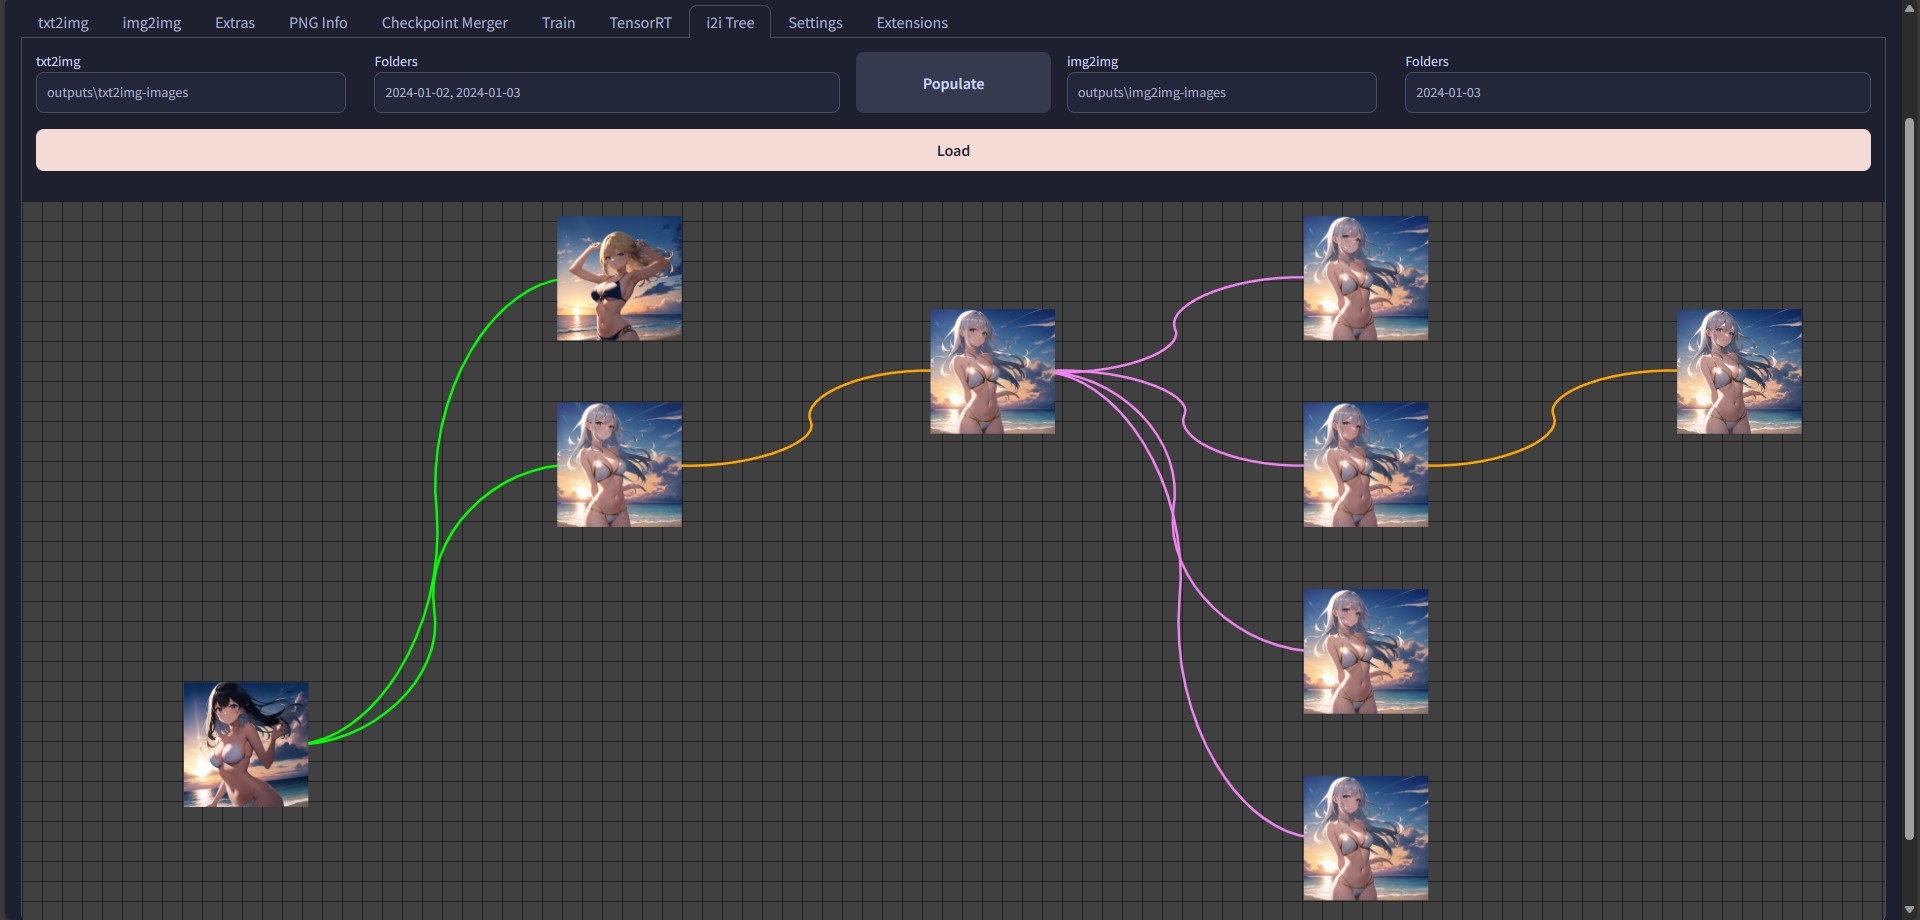
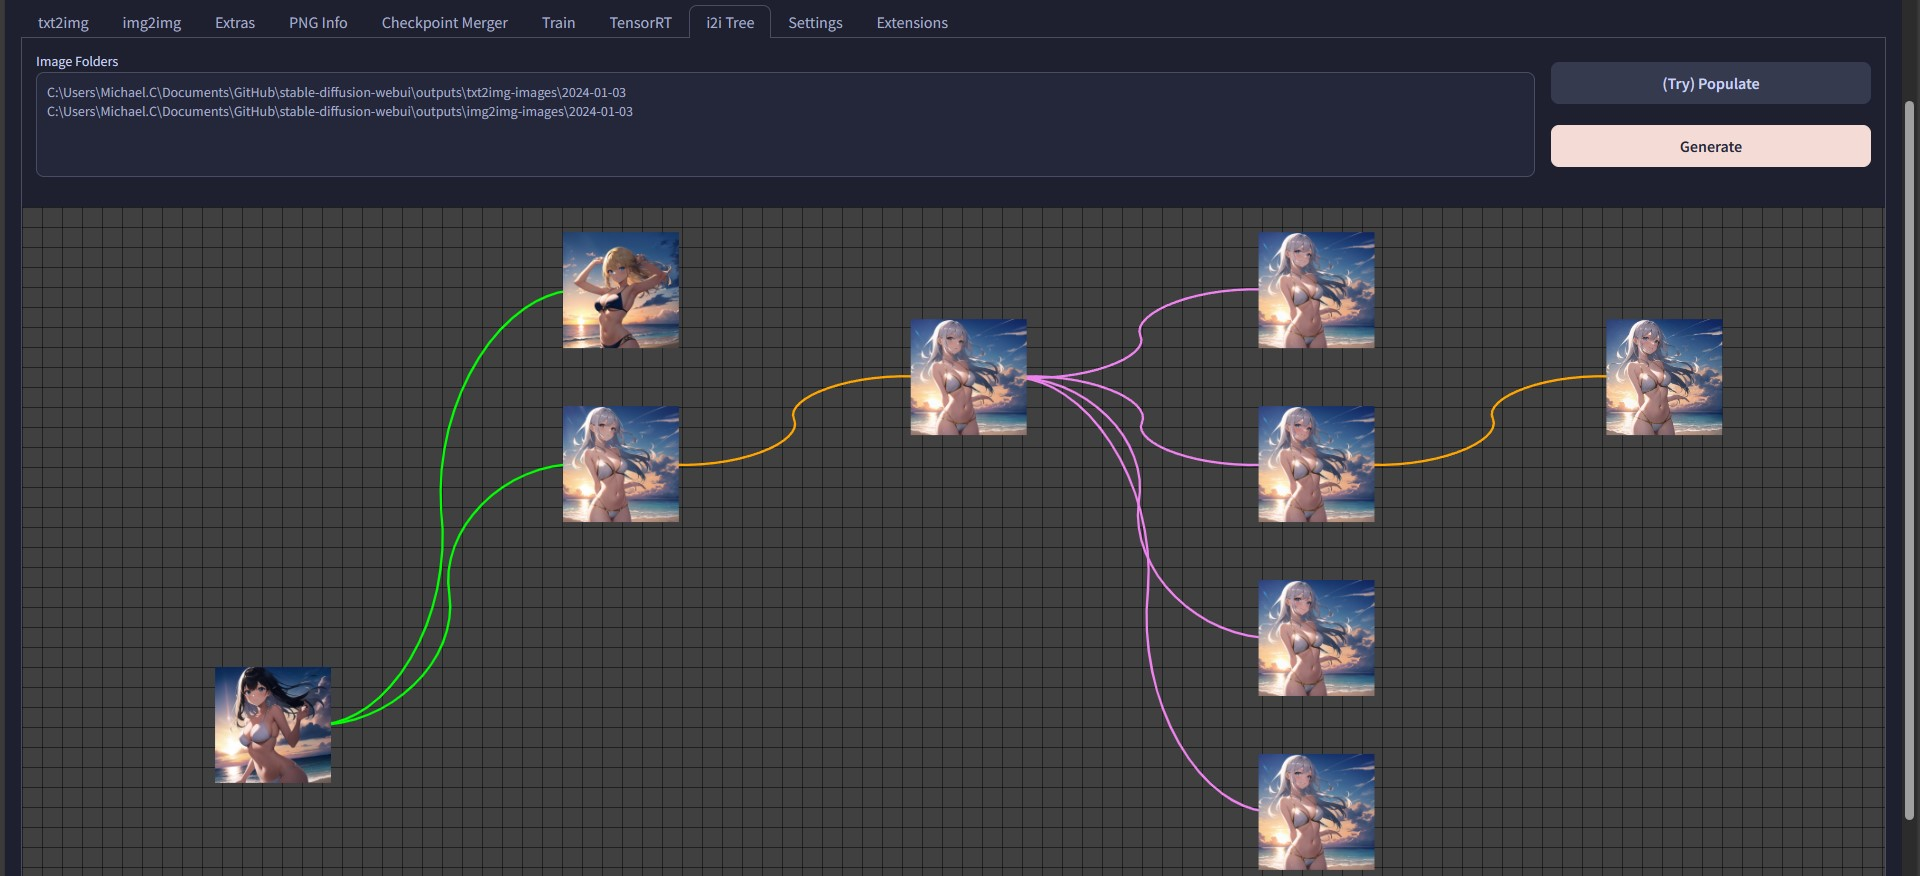
addressing #1

diff --git a/javascript/iTree_Loader.js b/javascript/iTree_Loader.js
@@ -50,6 +50,22 @@ function prune_unused(nodeList, sourceList) {
     return [nodeList, sourceList];
 }
 
+function prune_dupes() {
+    for (let i = iTree.nodeList.length - 1; i > 0; i--) {
+        for (let ii = i - 1; ii >= 0; ii--) {
+            if (iTree.nodeList[i].self === iTree.nodeList[ii].self)
+                iTree.nodeList.splice(i, 1);
+        }
+    }
+
+    for (let i = iTree.sourceList.length - 1; i >= 0; i--) {
+        for (let ii = i - 1; ii >= 0; ii--) {
+            if (iTree.sourceList[i].self === iTree.sourceList[ii].self)
+                iTree.sourceList.splice(i, 1);
+        }
+    }
+}
+
 function recursive_mapping(parent, rank, layer) {
     const ret = {};
     var childCount = 0;
@@ -128,7 +144,12 @@ function i2i_construct_tree() {
         return;
 
     const [allNodeList, allSourceList] = construct_hierarchy(imgs);
+
+    // console.log(allNodeList);
+    // console.log(allSourceList);
+
     [iTree.nodeList, iTree.sourceList] = prune_unused(allNodeList, allSourceList);
+    prune_dupes();
 
     // console.log(iTree.nodeList);
     // console.log(iTree.sourceList);

diff --git a/style.css b/style.css
@@ -26,6 +26,9 @@
     padding: 1em;
 }
 
-    #i2i_tree_tools .form {
-        gap: 2em;
+    #i2i_tree_tools .gradio-column {
+        display: flex;
+        flex-direction: row;
+        align-items: center;
+        gap: 0;
     }

diff --git a/scripts/i2i_tree.py b/scripts/i2i_tree.py
@@ -1,59 +1,69 @@
 from scripts.i2i_info import img2input, path2hash
 from modules import script_callbacks
+from modules.shared import opts
 import gradio as gr
 import os
 
-def parse_latest_folder():
-    from modules.shared import opts
-    T2I_OUTPUT_FOLDER = os.path.join(opts.outdir_samples, opts.outdir_txt2img_samples)
-    I2I_OUTPUT_FOLDER = os.path.join(opts.outdir_samples, opts.outdir_img2img_samples)
+def parse_latest_folder() -> str:
+    """
+    Attempt to parse Options to find the folder(s) that contain all the generated images
+    """
 
-    latest_t2i_folder = max(
-        os.listdir(T2I_OUTPUT_FOLDER),
-        key=lambda folder: os.path.getmtime(os.path.join(T2I_OUTPUT_FOLDER, folder)),
-        default='.'
-    )
+    dir2check = []
 
-    latest_i2i_folder = max(
-        os.listdir(I2I_OUTPUT_FOLDER),
-        key=lambda folder: os.path.getmtime(os.path.join(I2I_OUTPUT_FOLDER, folder)),
-        default='.'
-    )
+    # [Default]: Empty; Uses outputs folder with sub-folder
+    if len(opts.outdir_samples.strip()) == 0:
+        dir2check.append(os.path.abspath(opts.outdir_txt2img_samples))
+        dir2check.append(os.path.abspath(opts.outdir_img2img_samples))
+    else:
+        dir2check.append(os.path.abspath(opts.outdir_samples))
 
-    return [
-        T2I_OUTPUT_FOLDER.replace('/', '\\'),
-        latest_i2i_folder.replace('/', '\\'),
-        I2I_OUTPUT_FOLDER.replace('/', '\\'),
-        latest_i2i_folder.replace('/', '\\')
-    ]
+    if opts.save_to_dirs: # [Default]: True; Save to Folders sorted by Date
+        latest_folders = [os.path.join(folder,
+            max(
+                os.listdir(folder),
+                key=lambda subfolder: os.path.getmtime(os.path.join(folder, subfolder)),
+                default=None
+            )
+        ) for folder in dir2check]
+
+        return "\n".join(latest_folders)
+
+    else:
+        return "\n".join(dir2check)
 
 def populate_textfields():
-    t2i, t2if, i2i, i2if = parse_latest_folder()
-    return [
-        gr.update(value=t2i),
-        gr.update(value=t2if),
-        gr.update(value=i2i),
-        gr.update(value=i2if)
-    ]
+    try:
+        return gr.update(value=str(parse_latest_folder()))
+    except FileNotFoundError:
+        print('Something went wrong while trying to parse output paths. Create a new Issue on GitHub with your save directory options.')
+        return gr.update(value='')
 
 
-def load_images(path_t2i:str, t2i_folders:str, path_i2i:str, i2i_folders:str) -> list:
-    if len(path_t2i.strip()) == 0 or len(path_t2i.strip()) == 0:
-        return []
-    if len(t2i_folders.strip()) == 0 or len(i2i_folders.strip()) == 0:
+def load_images(image_paths:str) -> list:
+    if len(image_paths.strip()) == 0:
+        print('Path is Empty...')
         return []
 
-    foldersA = [os.path.join(path_t2i, SUB.strip()) for SUB in t2i_folders.split(',')]
-    foldersB = [os.path.join(path_i2i, SUB.strip()) for SUB in i2i_folders.split(',')]
+    folders = [F.strip() for F in image_paths.split('\n')]
 
     image_files = []
-    for FOLDER in (foldersA + foldersB):
+    for FOLDER in folders:
         if not os.path.exists(FOLDER): continue
         image_files += [os.path.join(FOLDER, F) for F in os.listdir(FOLDER)]
 
-    return [
-        (img, f'{img}_-{path2hash(img)}_-{img2input(img)}') for img in image_files
-    ]
+    img_list = []
+    for img in image_files:
+        try:
+            img_list.append((img, f'{img}_-{path2hash(img)}_-{img2input(img)}'))
+        except PermissionError:
+            # Folder
+            continue
+
+    if len(img_list) == 0:
+        print('Hmm... No images detected...')
+
+    return img_list
 
 
 def open_image(path:str):
@@ -71,13 +81,10 @@ def tree_ui():
     with gr.Blocks() as TREE:
         with gr.Column(elem_id='i2i_tree_tools'):
             with gr.Row():
-                out_t2i = gr.Textbox('', max_lines=1, label='txt2img', interactive=True, scale=2)
-                out_t2if = gr.Textbox('', max_lines=1, label='Folders', interactive=True, scale=3)
-                pop_btn = gr.Button('Populate', scale=1)
-                out_i2i = gr.Textbox('', max_lines=1, label='img2img', interactive=True, scale=2)
-                out_i2if = gr.Textbox('', max_lines=1, label='Folders', interactive=True, scale=3)
-
-            load_btn = gr.Button('Load', variant='primary')
+                img_folders = gr.Textbox('', lines=4, label='Image Folders', interactive=True, scale=8)
+                with gr.Column(scale=1):
+                    pop_btn = gr.Button('(Try) Populate')
+                    load_btn = gr.Button('Generate', variant='primary')
 
         res_gal = gr.Gallery(elem_id='i2i_tree_nodes', visible=False)
 
@@ -85,9 +92,9 @@ def tree_ui():
             img_open = gr.Textbox('', visible=False, elem_id='i2i_tree_img_open')
             oimg_btn = gr.Button('', visible=False, elem_id='i2i_tree_oimg_btn')
 
-        pop_btn.click(populate_textfields, outputs=[out_t2i, out_t2if, out_i2i, out_i2if])
-        oimg_btn.click(open_image, inputs=[img_open])
-        load_btn.click(load_images, inputs=[out_t2i, out_t2if, out_i2i, out_i2if], outputs=[res_gal]).success(
+        pop_btn.click(populate_textfields, outputs=img_folders)
+        oimg_btn.click(open_image, inputs=img_open)
+        load_btn.click(load_images, inputs=img_folders, outputs=res_gal).success(
             None, None, None, _js="() => { i2i_construct_tree(); }")
 
     return [(TREE, 'i2i Tree', 'sd-webui-i2i-ancestral-tree')]

diff --git a/README.md b/README.md
@@ -14,17 +14,22 @@ This is an Extension for the [Automatic1111 Webui](https://github.com/AUTOMATIC1
 - This will also add a new **i2i Tree** tab
 - Click on **Populate** to automatically fill in the latest output folders
     - Edit the fields if you want to visualize older generations
-    - Separate multiple folders with `,` *(only for the `Folders` field)*
-- Click on **Load** to generate the relational graph
+    - Separate multiple folders into individual lines
+- Click on **Generate** to create the relational graph
 - Source images *(**eg.** `txt2img` generations)* will appear on the left most side
 - `img2img` and `Inpaint` results will appear on the right side, with colored connections showing the operation
     - **Violet:** Inpaint
     - **Orange:** Upscale
     - **Red:** Downscale
     - **Lime:** img2img
+- `Sketch` and `Inpaint sketch` results do **not** work
 
 ### Control
 - Use **Middle Mouse** to pan/move 
 - Use **Scroll Wheel** to zoom
 - Pressing **Space** to quickly return to the default view
 - Clicking on an image will open the file explorer, with said file highlighted
+
+## Roadmap
+- [ ] More generation information
+- [ ] Checkbox for recursive processing images from folders
